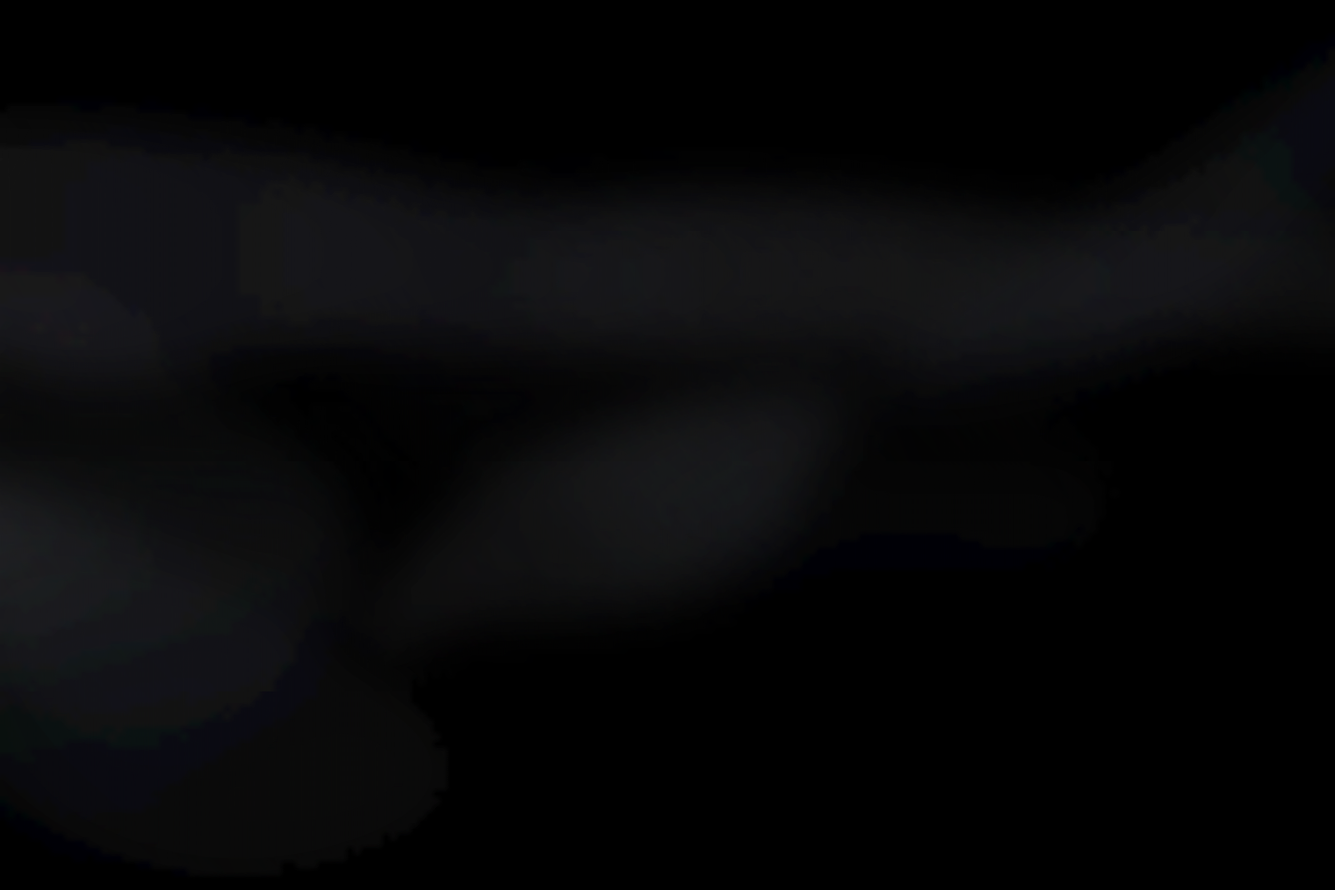
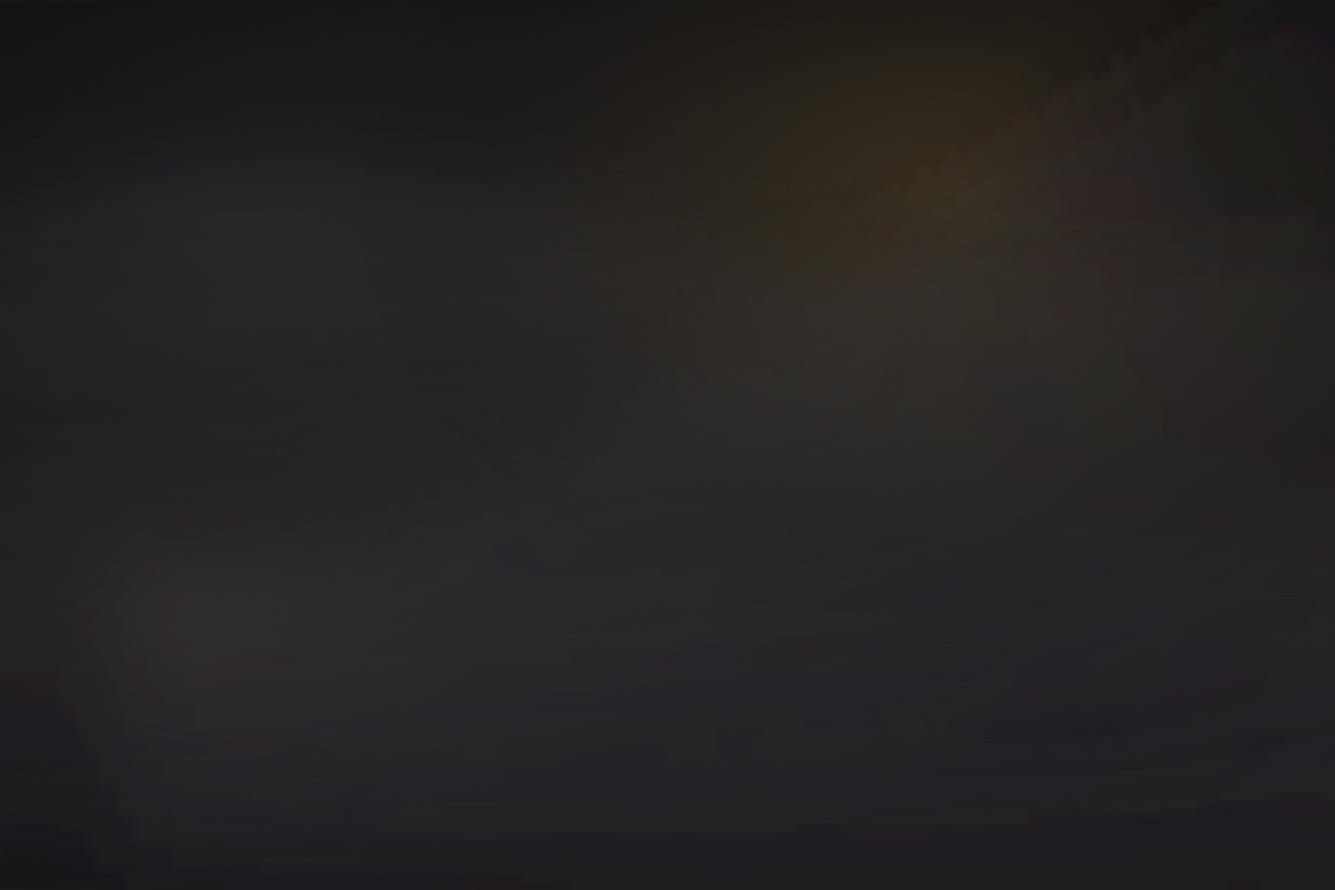
landing: liquid metal background - dark metallic, amber glow, silver sheen

diff --git a/frontend/public/background-source.html b/frontend/public/background-source.html
@@ -2,7 +2,7 @@
 <html lang="fr">
 <head>
   <meta charset="utf-8" />
-  <title>Background export</title>
+  <title>Background export - liquid metal</title>
   <style>
     * { margin: 0; padding: 0; box-sizing: border-box; }
     html, body { width: 100%; height: 100%; overflow: hidden; background: #000; }
@@ -33,51 +33,61 @@
     <div>
       <svg viewBox="0 0 1200 800" preserveAspectRatio="xMidYMid slice" xmlns="http://www.w3.org/2000/svg">
         <defs>
-          <linearGradient id="curve-dark-left" x1="0%" y1="0%" x2="100%" y2="0%" colorInterpolation="sRGB">
-            <stop offset="0%" stop-color="rgba(18,18,22,0.95)" />
-            <stop offset="8%" stop-color="rgba(23,23,28,0.85)" />
-            <stop offset="18%" stop-color="rgba(32,33,38,0.68)" />
-            <stop offset="35%" stop-color="rgba(45,46,52,0.5)" />
-            <stop offset="50%" stop-color="rgba(85,87,94,0.28)" />
-            <stop offset="68%" stop-color="rgba(145,147,153,0.14)" />
-            <stop offset="85%" stop-color="rgba(220,221,224,0.08)" />
-            <stop offset="100%" stop-color="rgba(255,252,255,0.07)" />
+          <!-- Amber-gold glow (warm reflection) -->
+          <radialGradient id="amber-glow" cx="75%" cy="25%" r="70%" fx="72%" fy="22%" colorInterpolation="sRGB">
+            <stop offset="0%" stop-color="rgba(212,165,80,0.22)" />
+            <stop offset="30%" stop-color="rgba(180,140,60,0.12)" />
+            <stop offset="55%" stop-color="rgba(120,95,45,0.05)" />
+            <stop offset="100%" stop-color="rgba(20,18,14,0)" />
+          </radialGradient>
+          <!-- Silver sheen (cool highlight) -->
+          <radialGradient id="silver-sheen" cx="20%" cy="30%" r="85%" fx="18%" fy="25%" colorInterpolation="sRGB">
+            <stop offset="0%" stop-color="rgba(255,252,250,0.08)" />
+            <stop offset="40%" stop-color="rgba(220,218,215,0.04)" />
+            <stop offset="70%" stop-color="rgba(120,118,115,0.02)" />
+            <stop offset="100%" stop-color="rgba(15,15,14,0)" />
+          </radialGradient>
+          <!-- Second amber accent (subtle) -->
+          <radialGradient id="amber-accent" cx="15%" cy="70%" r="50%" colorInterpolation="sRGB">
+            <stop offset="0%" stop-color="rgba(200,155,70,0.08)" />
+            <stop offset="50%" stop-color="rgba(100,80,40,0.02)" />
+            <stop offset="100%" stop-color="rgba(10,10,8,0)" />
+          </radialGradient>
+          <!-- Dark metallic base gradient -->
+          <linearGradient id="metal-base" x1="0%" y1="0%" x2="100%" y2="100%" colorInterpolation="sRGB">
+            <stop offset="0%" stop-color="#0c0c0e" />
+            <stop offset="50%" stop-color="#0e0e12" />
+            <stop offset="100%" stop-color="#08080a" />
           </linearGradient>
-          <linearGradient id="curve-dark-right" x1="100%" y1="0%" x2="0%" y2="0%" colorInterpolation="sRGB">
-            <stop offset="0%" stop-color="rgba(14,14,18,0.92)" />
-            <stop offset="15%" stop-color="rgba(22,23,28,0.78)" />
-            <stop offset="35%" stop-color="rgba(32,34,40,0.55)" />
-            <stop offset="50%" stop-color="rgba(38,40,46,0.45)" />
-            <stop offset="65%" stop-color="rgba(85,87,94,0.28)" />
-            <stop offset="82%" stop-color="rgba(165,167,172,0.12)" />
-            <stop offset="100%" stop-color="rgba(255,252,255,0.08)" />
+          <!-- Soft wave highlight (liquid fold) -->
+          <linearGradient id="wave-highlight" x1="0%" y1="100%" x2="0%" y2="0%" colorInterpolation="sRGB">
+            <stop offset="0%" stop-color="rgba(12,12,14,0.9)" />
+            <stop offset="35%" stop-color="rgba(55,54,58,0.4)" />
+            <stop offset="65%" stop-color="rgba(100,98,102,0.12)" />
+            <stop offset="100%" stop-color="rgba(200,198,202,0.04)" />
           </linearGradient>
-          <linearGradient id="curve-soft" x1="0%" y1="100%" x2="0%" y2="0%" colorInterpolation="sRGB">
-            <stop offset="0%" stop-color="rgba(10,10,14,0.9)" />
-            <stop offset="20%" stop-color="rgba(30,31,36,0.6)" />
-            <stop offset="45%" stop-color="rgba(60,62,68,0.28)" />
-            <stop offset="70%" stop-color="rgba(110,112,118,0.1)" />
-            <stop offset="100%" stop-color="rgba(255,252,255,0.05)" />
+          <linearGradient id="wave-highlight-2" x1="100%" y1="0%" x2="0%" y2="100%" colorInterpolation="sRGB">
+            <stop offset="0%" stop-color="rgba(18,17,20,0.85)" />
+            <stop offset="50%" stop-color="rgba(70,68,72,0.25)" />
+            <stop offset="100%" stop-color="rgba(140,138,142,0.06)" />
           </linearGradient>
-          <linearGradient id="curve-edge" x1="0%" y1="0%" x2="100%" y2="100%" colorInterpolation="sRGB">
-            <stop offset="0%" stop-color="rgba(255,252,255,0.06)" />
-            <stop offset="18%" stop-color="rgba(65,67,72,0.4)" />
-            <stop offset="40%" stop-color="rgba(32,34,38,0.52)" />
-            <stop offset="62%" stop-color="rgba(22,23,27,0.72)" />
-            <stop offset="100%" stop-color="rgba(12,12,16,0.92)" />
-          </linearGradient>
-          <filter id="blur-deep" x="-50%" y="-50%" width="200%" height="200%" color-interpolation-filters="sRGB">
-            <feGaussianBlur in="SourceGraphic" stdDeviation="26" result="blur" />
+          <filter id="blur-soft" x="-30%" y="-30%" width="160%" height="160%" color-interpolation-filters="sRGB">
+            <feGaussianBlur in="SourceGraphic" stdDeviation="35" result="blur" />
             <feMerge><feMergeNode in="blur" /></feMerge>
           </filter>
         </defs>
-        <rect width="100%" height="100%" fill="#000" />
-        <g filter="url(#blur-deep)">
-          <path d="M -80 120 C 200 80 400 200 550 180 C 750 150 950 220 1100 200 C 1250 180 1350 240 1400 220 L 1400 280 C 1280 320 1050 280 900 300 C 700 330 400 280 180 320 C 0 350 -80 280 -80 220 Z" fill="url(#curve-dark-left)" opacity="0.95" />
-          <path d="M 1300 -40 C 1150 100 1000 180 850 280 C 700 380 750 480 650 520 C 500 580 400 520 350 600 L 320 560 C 380 460 450 400 600 360 C 750 320 900 380 1050 300 C 1180 230 1280 80 1300 -40 Z" fill="url(#curve-dark-right)" opacity="0.9" />
-          <path d="M -100 250 C 50 200 150 320 250 380 C 380 460 300 580 200 650 C 80 720 0 620 -50 500 C -80 420 -80 320 -100 250 Z" fill="url(#curve-soft)" opacity="0.85" />
-          <path d="M -120 450 C 80 400 180 520 320 600 C 480 690 400 750 280 780 C 120 820 -60 720 -100 580 C -130 480 -120 450 -120 450 Z" fill="url(#curve-edge)" opacity="0.8" />
-          <path d="M 400 300 C 600 260 800 320 950 380 C 1050 420 1000 500 900 520 C 750 550 550 480 400 420 C 280 370 280 320 400 300 Z" fill="url(#curve-soft)" opacity="0.35" />
+        <!-- Base -->
+        <rect width="100%" height="100%" fill="url(#metal-base)" />
+        <!-- Amber glow -->
+        <rect width="100%" height="100%" fill="url(#amber-glow)" />
+        <rect width="100%" height="100%" fill="url(#amber-accent)" />
+        <!-- Silver sheen -->
+        <rect width="100%" height="100%" fill="url(#silver-sheen)" />
+        <!-- Liquid fold shapes (soft waves for metallic reflection) -->
+        <g filter="url(#blur-soft)">
+          <path d="M -100 200 Q 200 80 500 180 T 1100 220 T 1400 180 L 1400 900 L -100 900 Z" fill="url(#wave-highlight)" opacity="0.9" />
+          <path d="M 1200 -50 Q 900 150 600 350 T 100 500 L 100 900 L 1300 900 L 1300 200 Z" fill="url(#wave-highlight-2)" opacity="0.75" />
+          <path d="M 300 400 Q 600 280 950 380 Q 700 520 400 480 Q 200 450 300 400 Z" fill="url(#wave-highlight)" opacity="0.25" />
         </g>
       </svg>
     </div>
